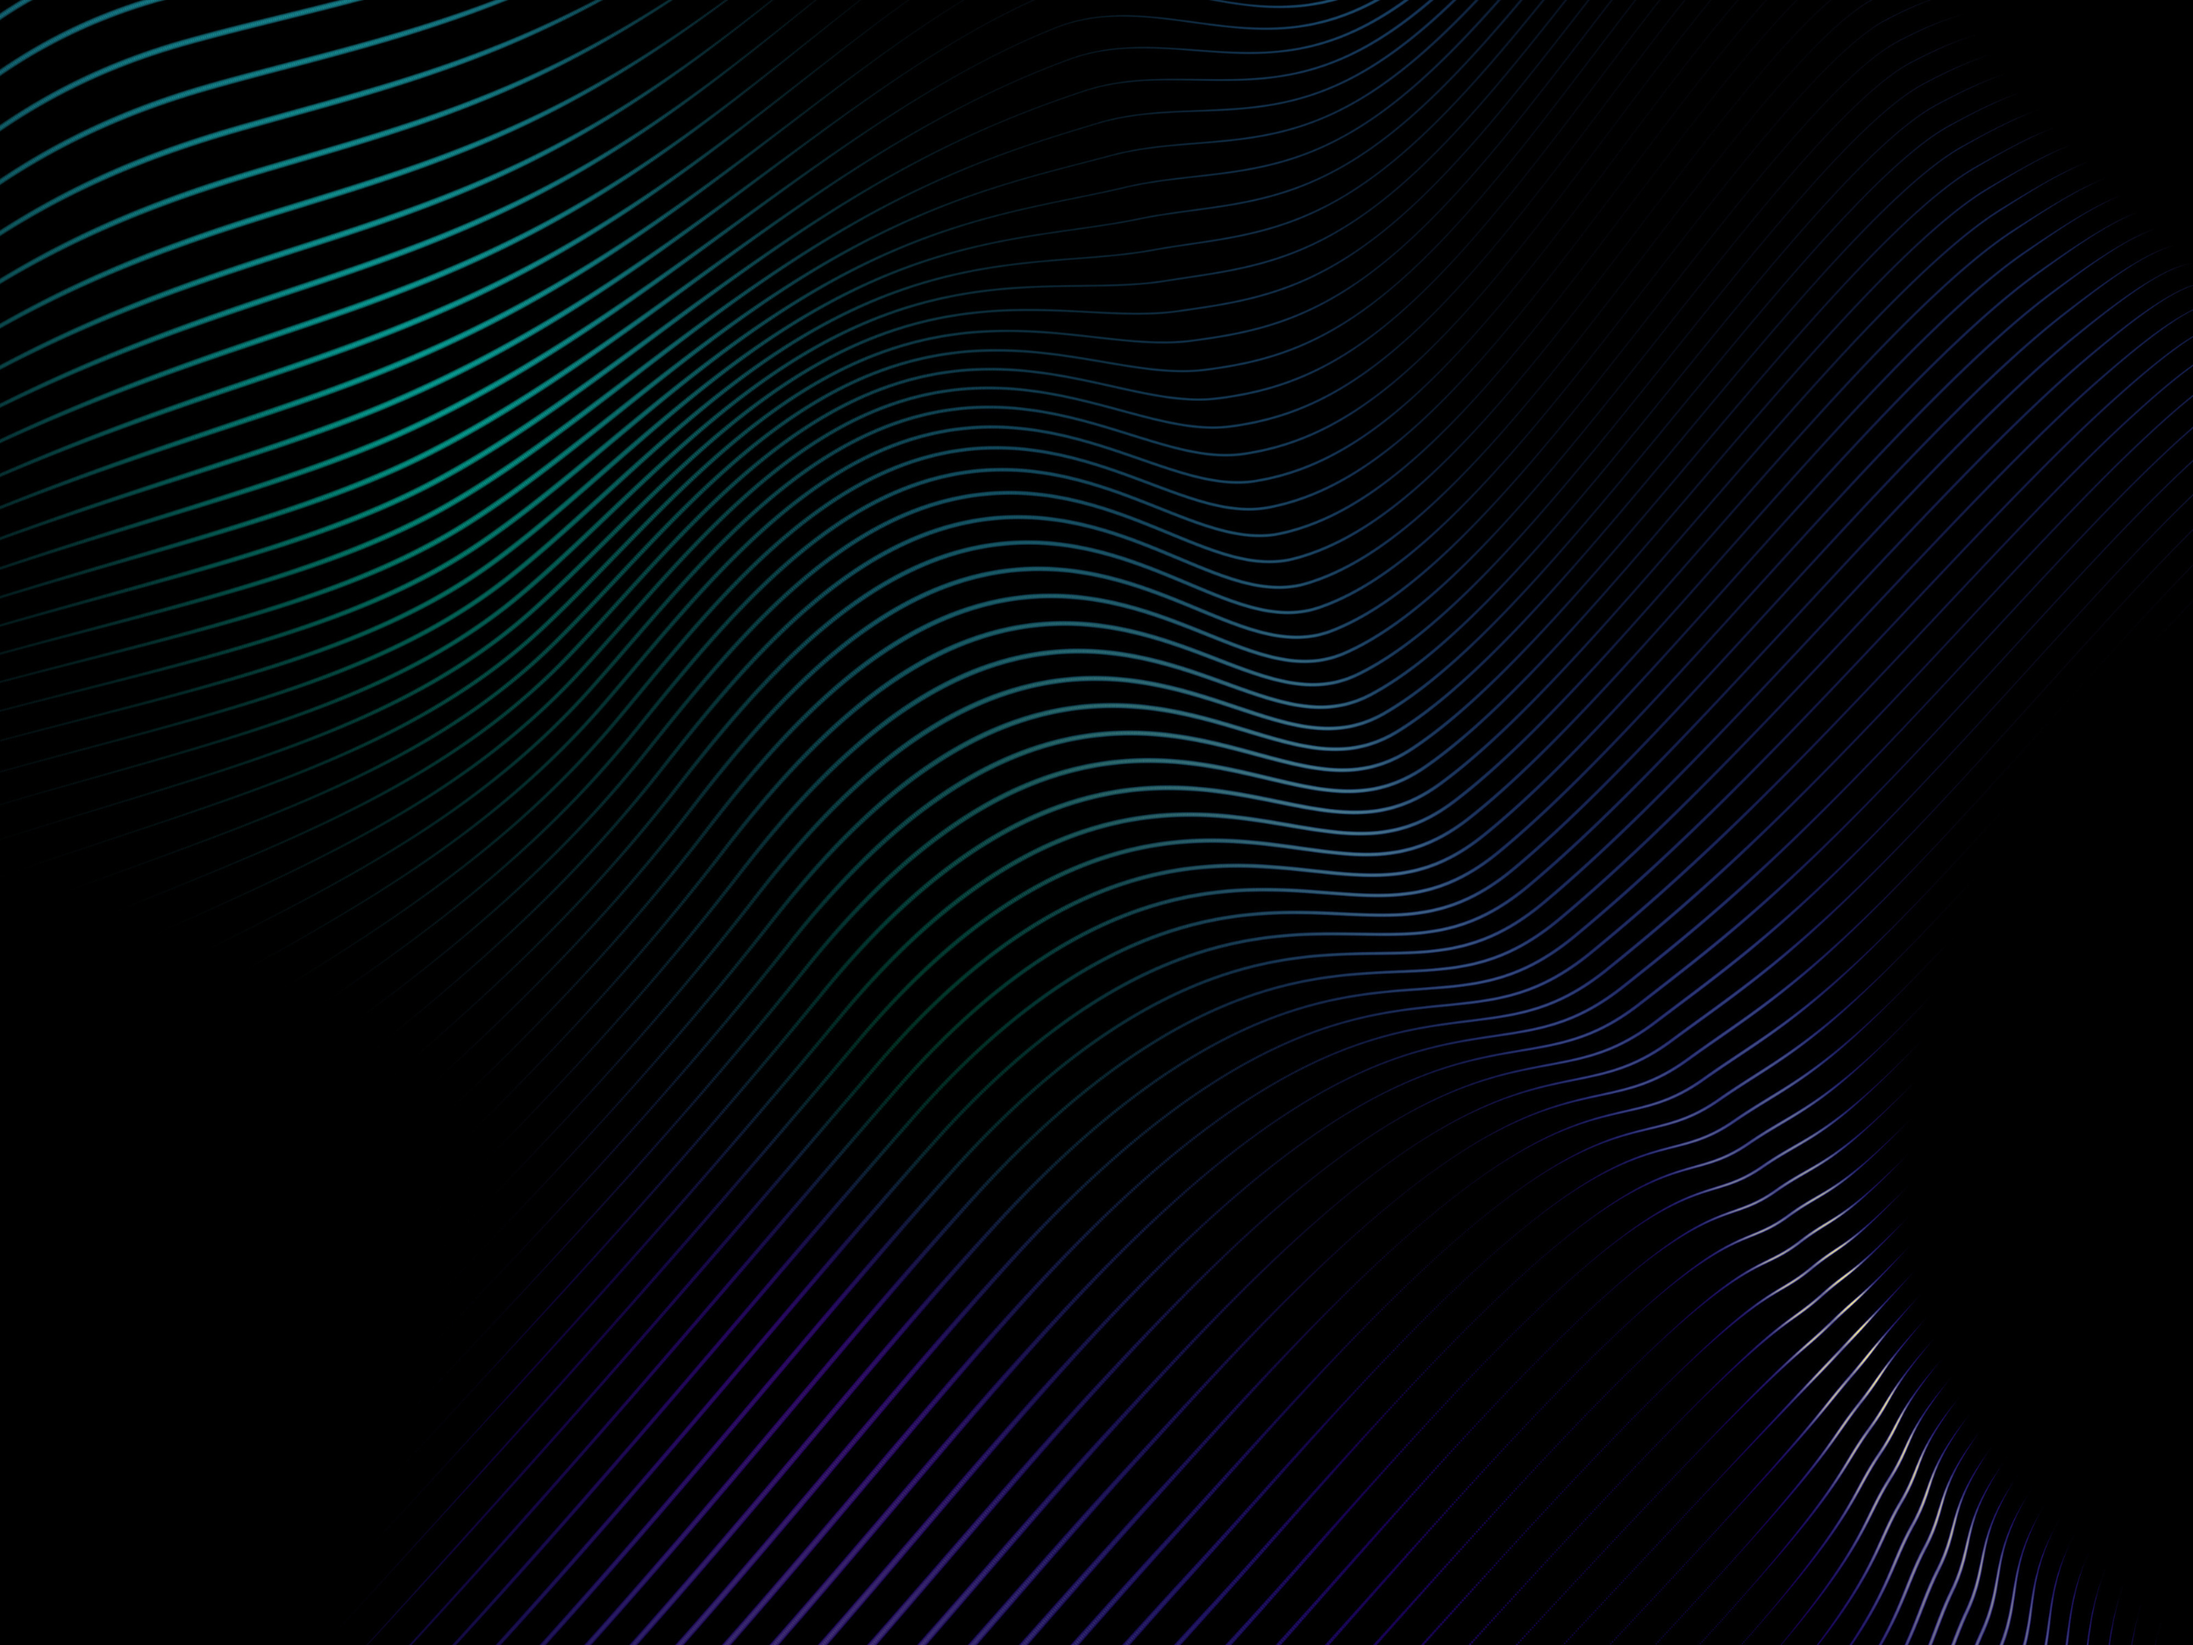
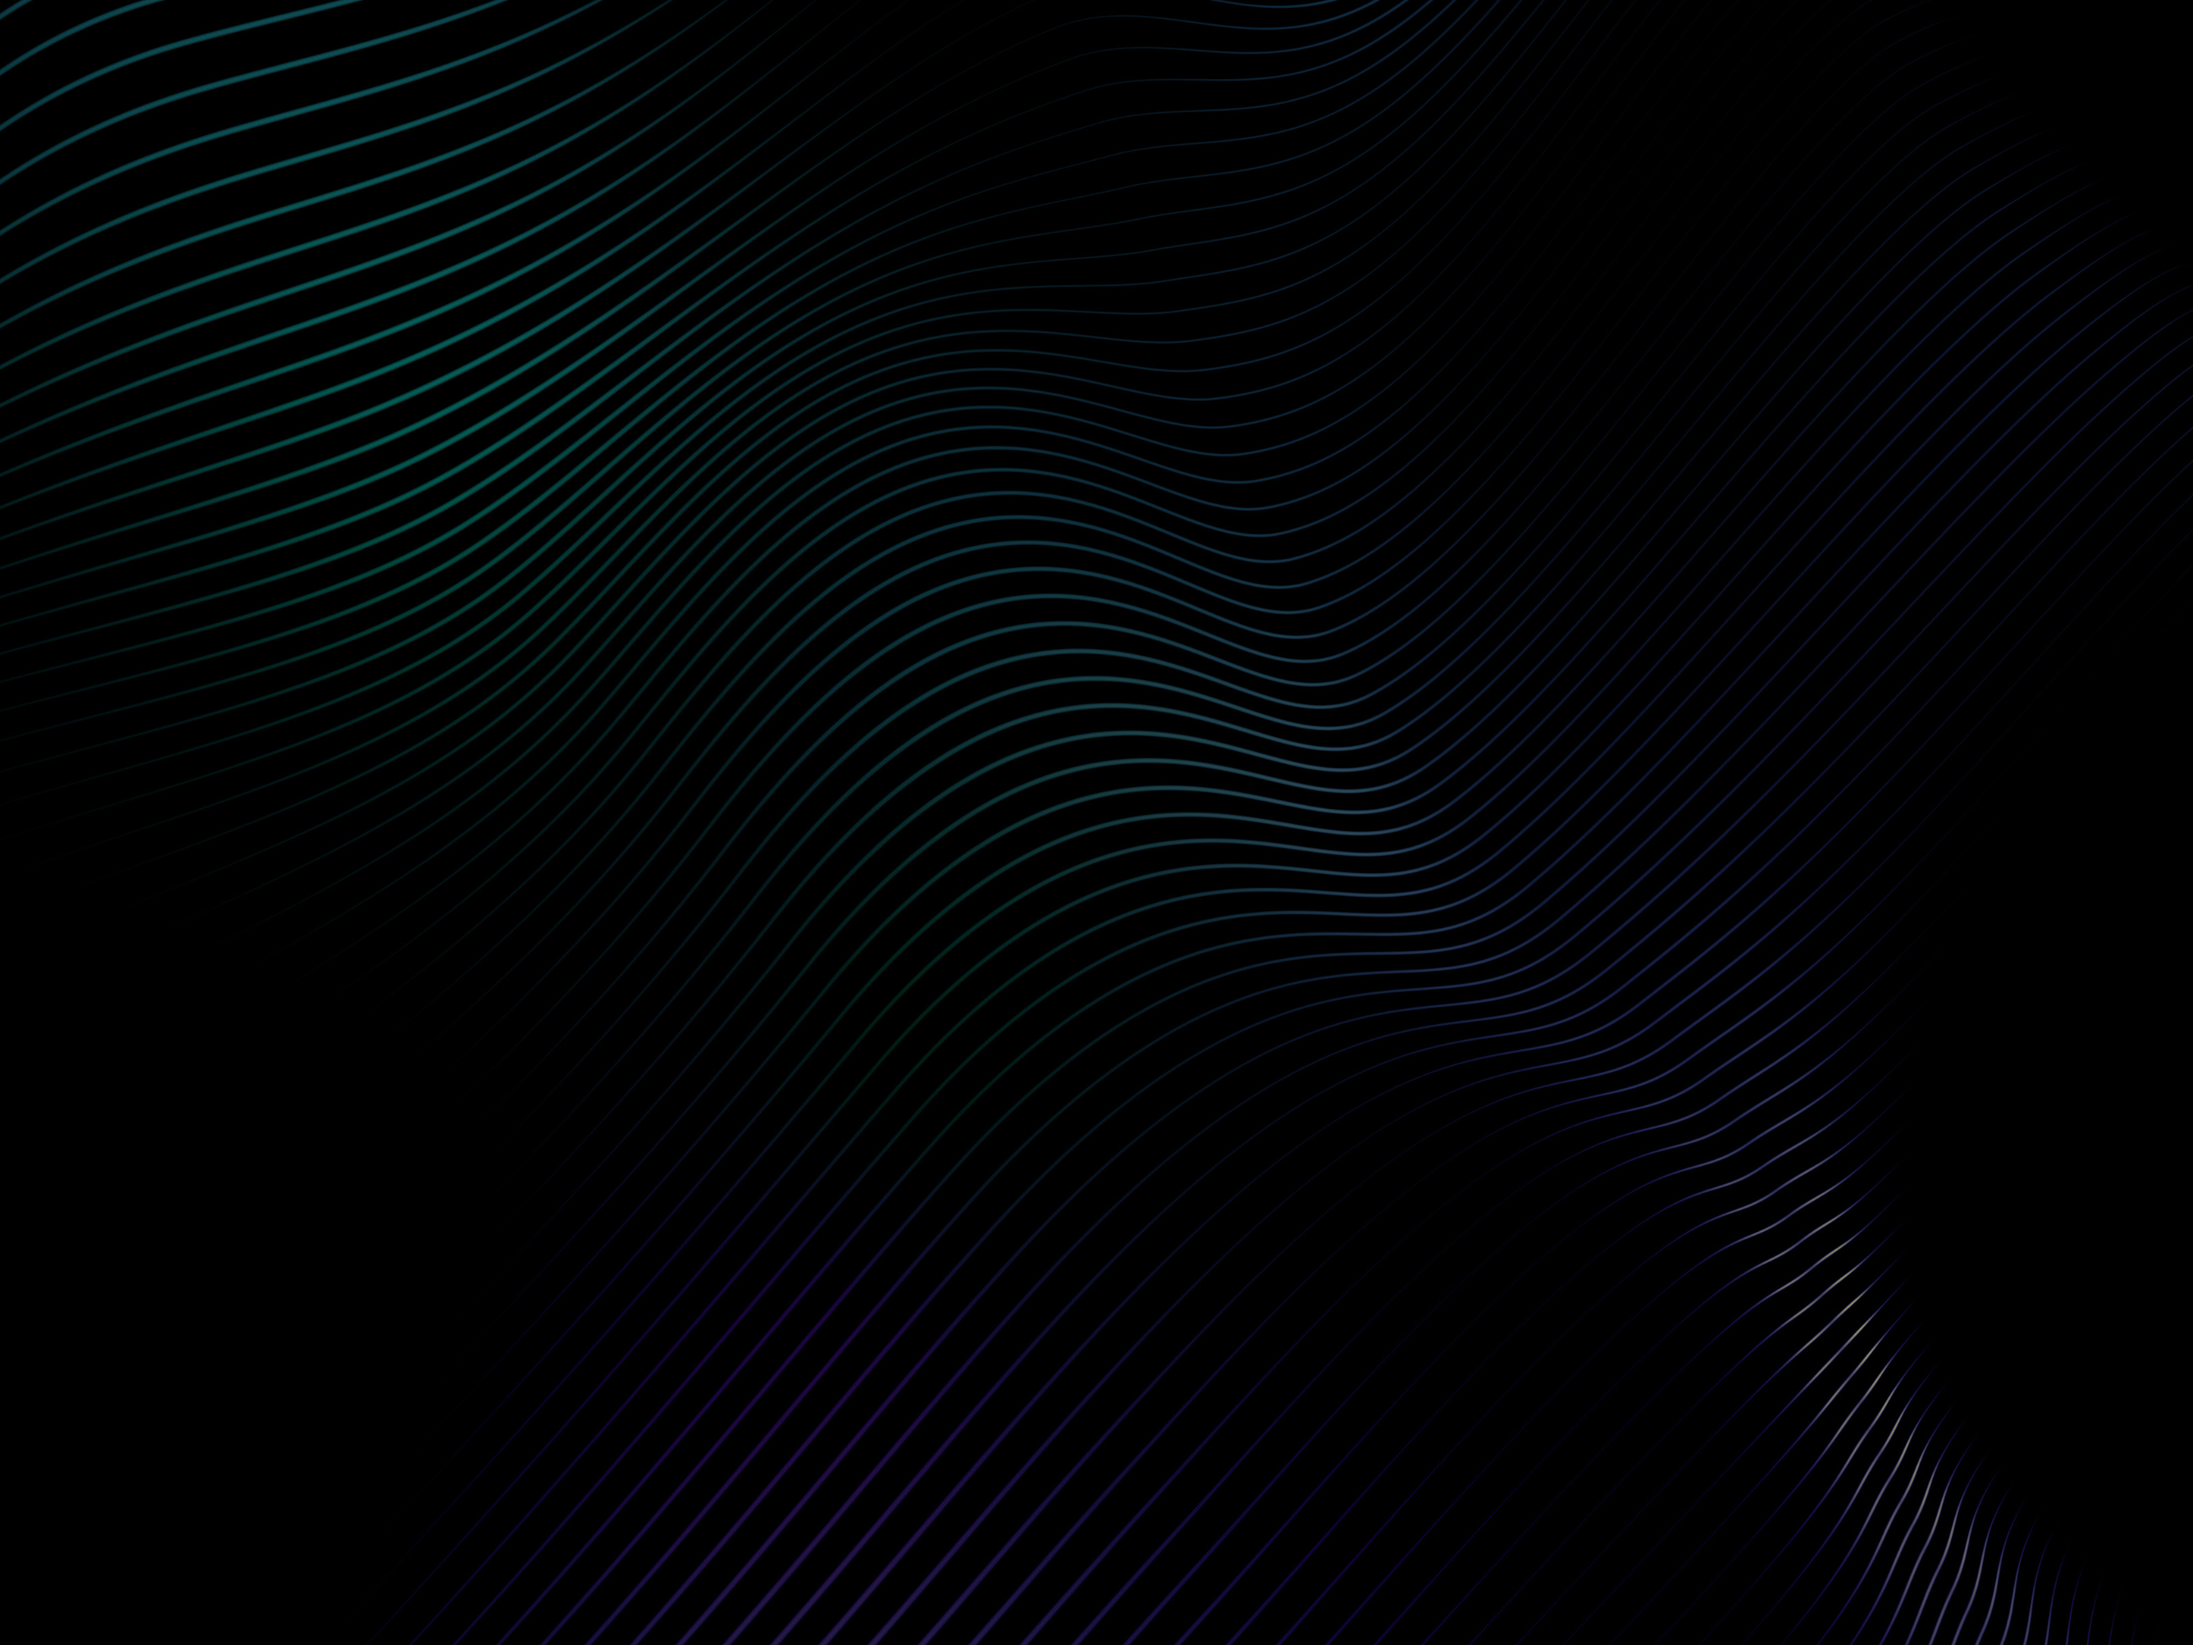
background changed

Changed region(s): [[0.0312, 0.0, 0.936, 1.0], [0.2496, 0.7733, 0.5928, 1.0], [0.5928, 0.0, 0.6552, 0.0309]]

diff --git a/css/HomePage.css b/css/HomePage.css
@@ -13,7 +13,7 @@ html{
 }
 
 body {
-  background-image: url("/images/dash_back.jpg");
+  background-image: url("/images/dashback1.png");
 	background-size: cover;
 	color: #ffffff;
 	font-family: Arial;
